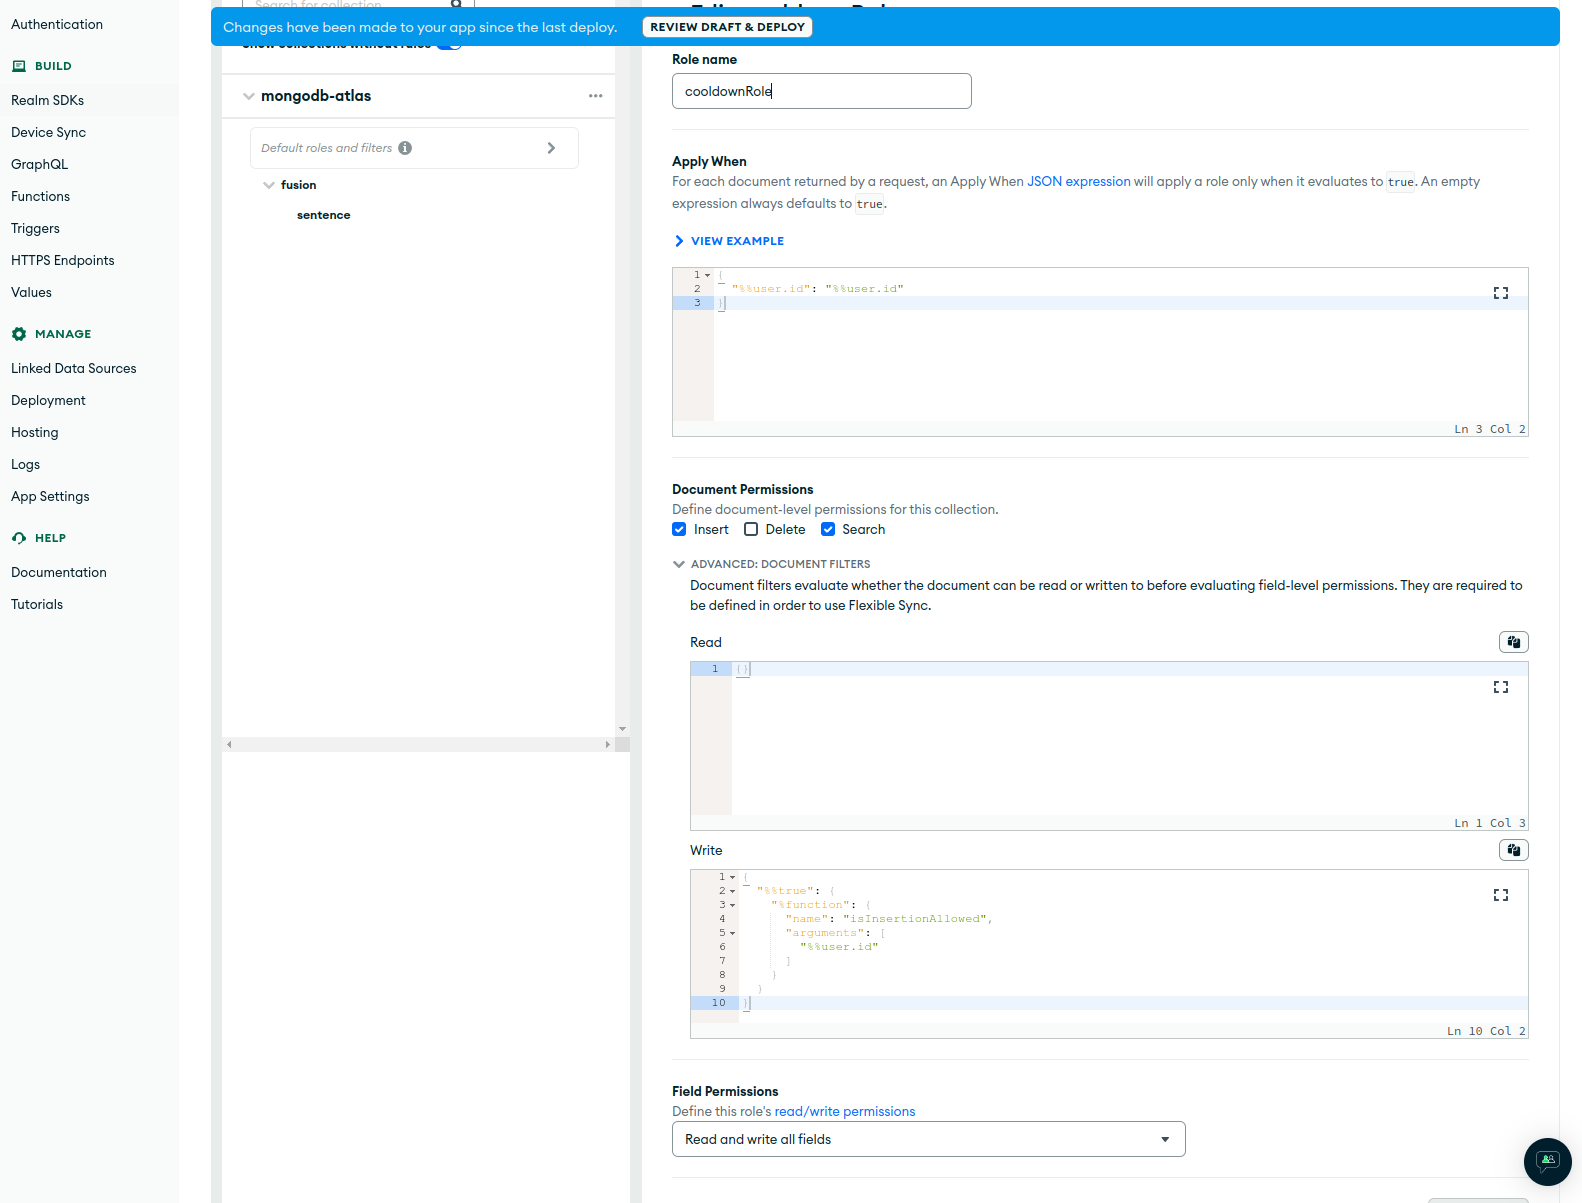
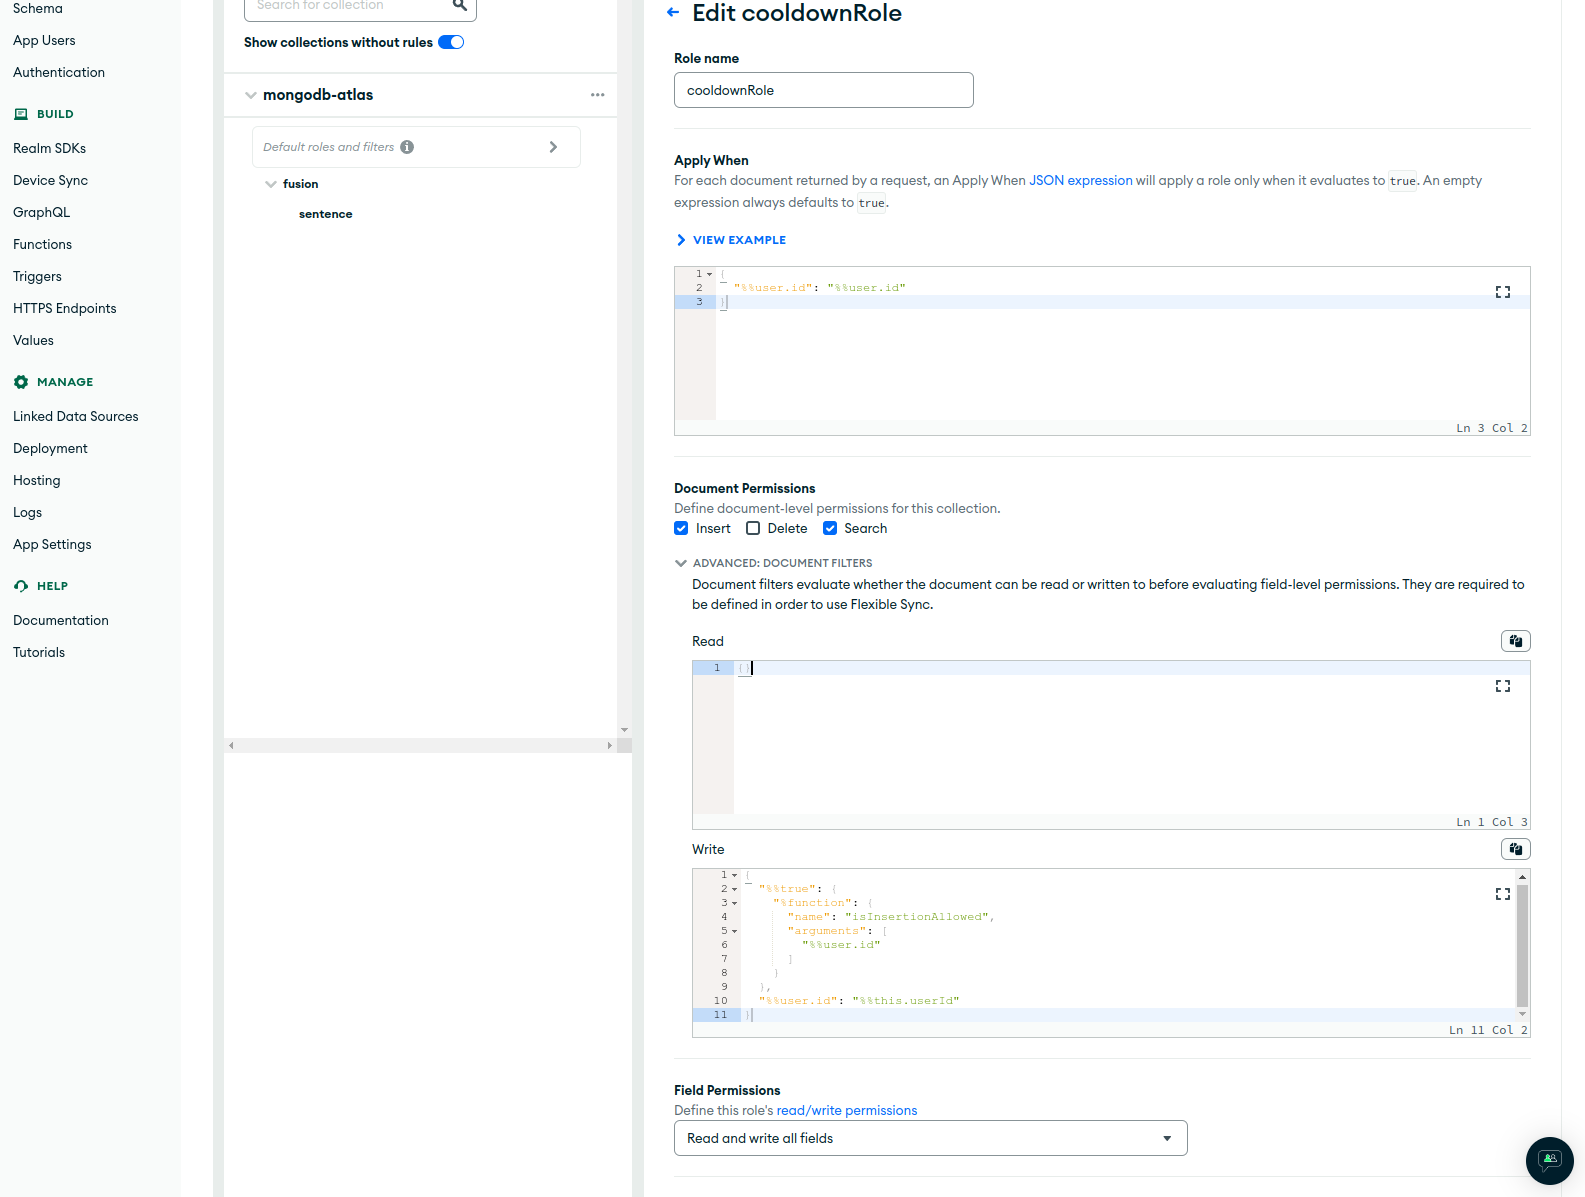
new role definition

diff --git a/README.md b/README.md
@@ -105,7 +105,7 @@ Select sentence collection, then click blue *Skip (start from scratch)* text to 
 
 ![role configuration](./img/role_conf.png)
 
-In the *Apply When* you can place any JSON expression that will always evaluate to true. In the write document permission we set the rule to use our function to decide, whether a document should be inserted. Learn more about [Rule Expressions](https://www.mongodb.com/docs/atlas/app-services/rules/).
+In the *Apply When* you can place any JSON expression that will always evaluate to true. In the write document permission we set the rule to use our function to decide, whether a document should be inserted. Learn more about [Rule Expressions](https://www.mongodb.com/docs/atlas/app-services/rules/expressions/).
 
 ```json
 {
@@ -116,11 +116,12 @@ In the *Apply When* you can place any JSON expression that will always evaluate 
         "%%user.id"
       ]
     }
-  }
+  },
+  "%%user.id": "%%this.userId"
 }
 ```
 
-The *Write* advanced filter will call our previously created function. The function will return whether the user's insertion request will be accepted.
+The *Write* advanced filter will call our previously created function. The function will return whether the user's insertion request will be accepted. The second condition makes it unable for the user to provide a different userId that their actual. If a user attempts to insert a document with userId "a", it will be rejected.
 
 After you are done with that, deploy your changes.
 
